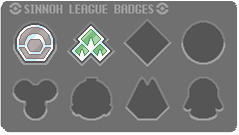
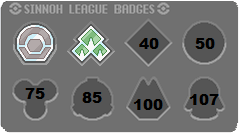
chg

diff --git a/Pokemon2/main.js b/Pokemon2/main.js
@@ -100,7 +100,7 @@ var badge_info = [
   ["Kanto", 0, 10, 25, 50, 75, 100, 120, 140, 151],
   ["Johto", 0, 10, 20, 40, 50, 60, 80, 90, 100],
   ["Hoenn", 0, 10, 25, 50, 75, 100, 110, 125, 135],
-  ["Sinnoh", 0, 10, 20, 40, 50, 75, 80, 90, 107]
+  ["Sinnoh", 0, 10, 20, 40, 50, 75, 85, 100, 107]
 ]
 
 

diff --git a/Pokemon2/pokedex.css b/Pokemon2/pokedex.css
@@ -4,6 +4,8 @@
   width: 485px;
   height: 500px;
   margin: auto;
+  margin-left: 30px;
+  margin-right: 30px;
   background: #d3d3d3;
   border: 2px black solid;
   border-radius: 30px;

diff --git a/Pokemon2/matte_boks.css b/Pokemon2/matte_boks.css
@@ -4,6 +4,7 @@
   width: 350px;
   height: 500px;
   margin: auto;
+  margin-right: 0px;
   background: #83d6ef;
   border: 2px black solid;
   border-radius: 30px;

diff --git a/Pokemon2/favoritt.css b/Pokemon2/favoritt.css
@@ -3,6 +3,7 @@
 .fav_div{
   display: grid;
   margin: auto;
+  margin-left: 0px;
   height: 450px;
 }
 
